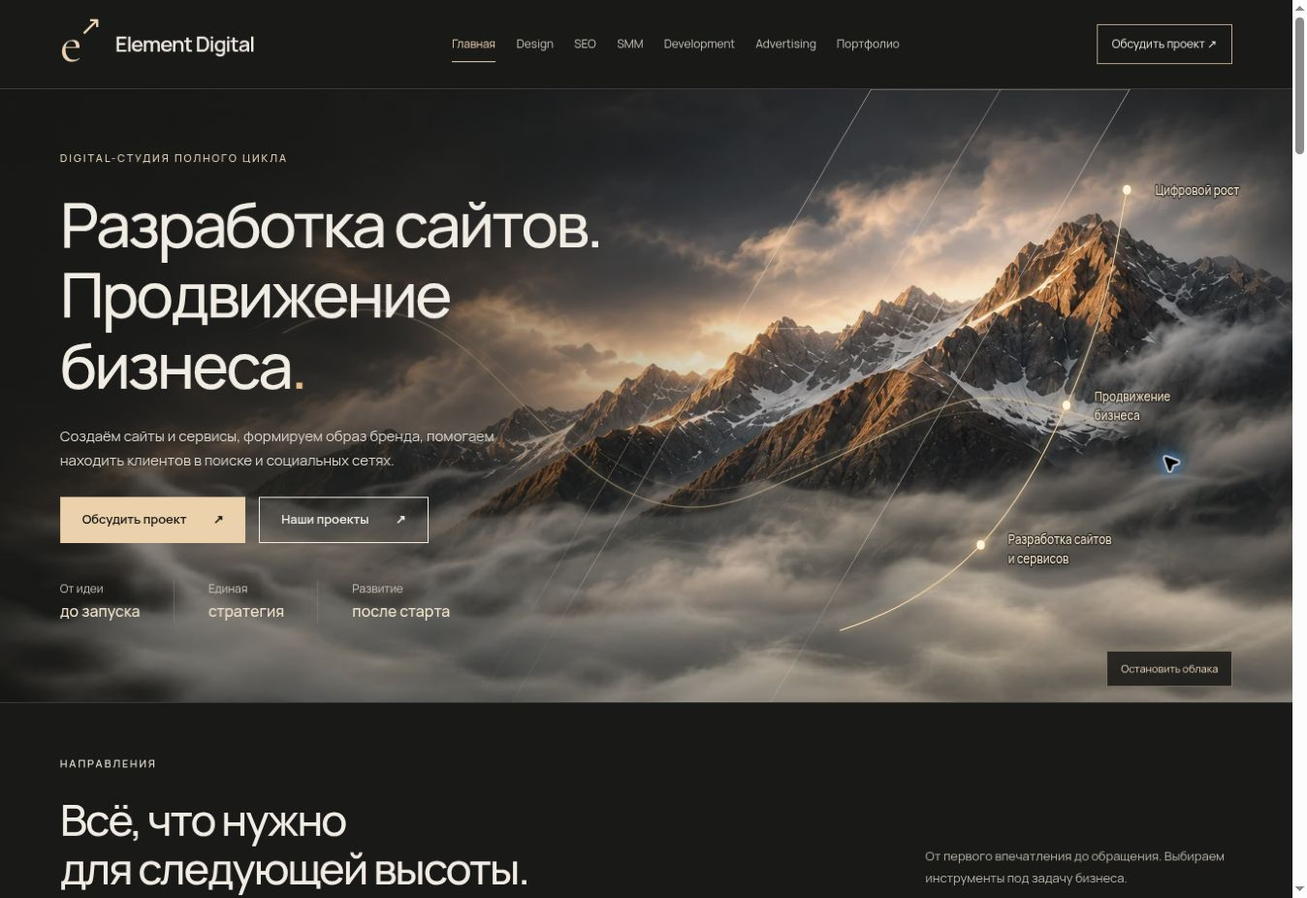
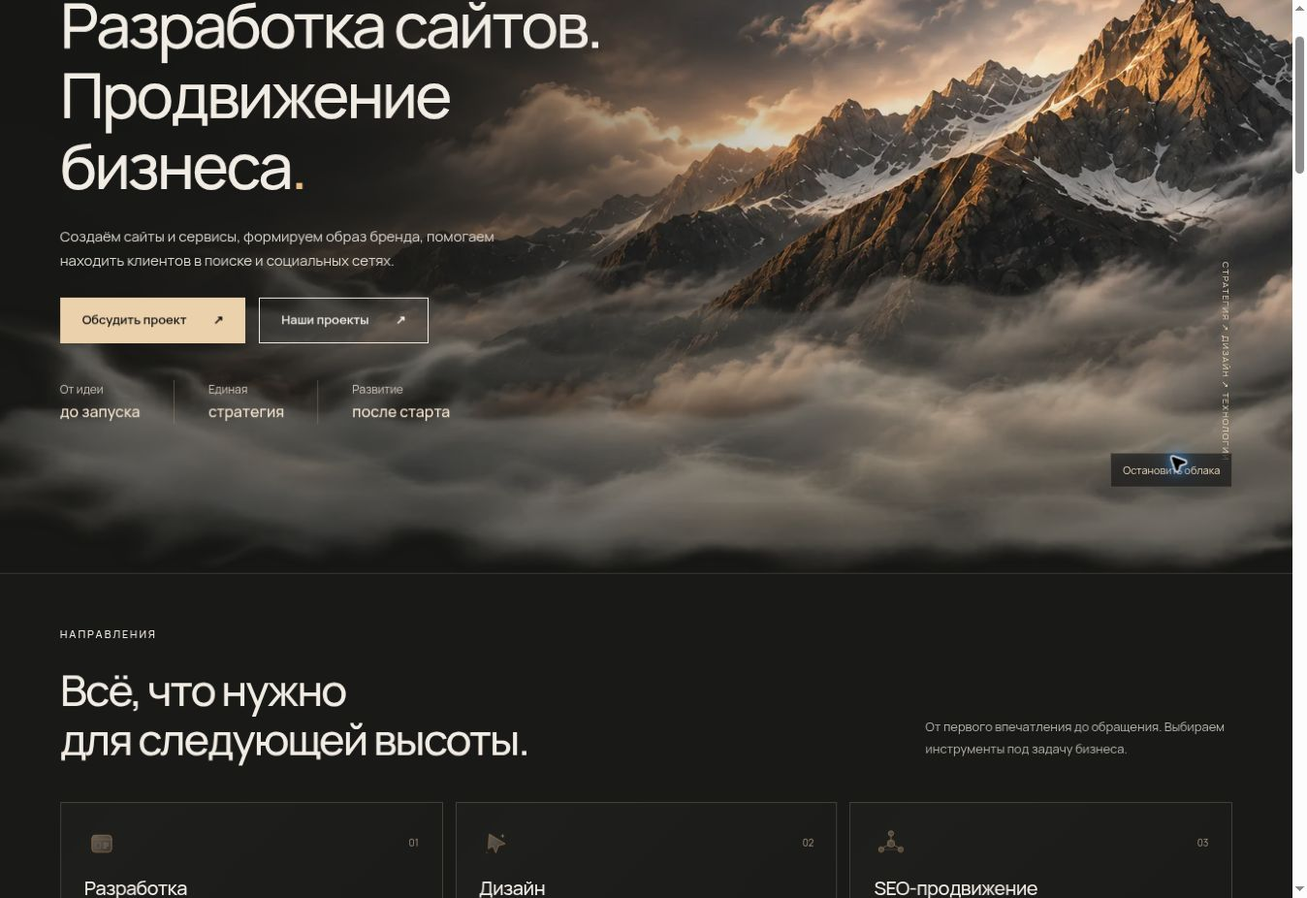
Limit change to cloud motion; preserve original mountains and remove all extra artwork

diff --git a/src/premium.css b/src/premium.css
@@ -1,5 +1,5 @@
 @font-face{font-family:Manrope;src:url('assets/manrope-400.woff') format('woff');font-weight:400;font-display:swap}@font-face{font-family:Manrope;src:url('assets/manrope-500.woff') format('woff');font-weight:500;font-display:swap}@font-face{font-family:Manrope;src:url('assets/manrope-600.woff') format('woff');font-weight:600 900;font-display:swap}@font-face{font-family:Cormorant;src:url('assets/cormorant-400.woff') format('woff');font-weight:400;font-display:swap}
-:root{--bg:#191918;--panel:#222220;--text:#f1ede5;--muted:#b9b5ad;--accent:#ebd1ac;--line:#ffffff26;--gutter:clamp(22px,4.6vw,88px);--sans:Manrope,Arial,sans-serif;--serif:Cormorant,Georgia,serif}*{box-sizing:border-box}html{scroll-behavior:smooth;scroll-padding-top:28px}body{margin:0;background:var(--bg);color:var(--text);font-family:var(--sans);font-size:16px;line-height:1.65}h1,h2,h3,p{margin:0}h1,h2,h3{font-weight:500;line-height:1.13;letter-spacing:-.045em}h1{font-size:clamp(44px,5.3vw,84px)}h2{font-size:clamp(34px,3.35vw,54px)}h3{font-size:23px;letter-spacing:-.025em}p{margin-block:18px}a{color:inherit;text-decoration:none}button,input,textarea,select{font:inherit}button,a,input,textarea,select{touch-action:manipulation}button{cursor:pointer}button{color:inherit}button:disabled{cursor:wait;opacity:.55}button,input,textarea,select{border-radius:0}button{border:0}img{max-width:100%;display:block}button:focus-visible,a:focus-visible,summary:focus-visible,input:focus-visible,textarea:focus-visible,select:focus-visible{outline:3px solid #c39bff;outline-offset:5px}a:hover{color:var(--accent)}[hidden]{display:none!important}::selection{color:#191918;background:#e8d1b0}.wrap{width:100%;max-width:1680px;margin-inline:auto;padding-inline:var(--gutter)}.section{padding-block:90px}.eyebrow{font-size:11px;letter-spacing:.18em;line-height:1.5;font-weight:500;margin:0 0 23px}.small,small{font-size:12px;line-height:1.7}.muted{color:var(--muted)}em{font-family:var(--serif);font-weight:400;font-size:1.14em;line-height:.9}.skip{position:fixed;top:-100px;left:20px;background:var(--accent);color:#151515;padding:12px 20px;z-index:100}.skip:focus{top:15px}.header{position:relative;z-index:30;background:#191918;color:#f1ede5;border-bottom:1px solid #ffffff25}.header-inner{min-height:92px;display:flex;align-items:center;gap:30px;justify-content:space-between}.brand{display:inline-flex;align-items:center;gap:18px;white-space:nowrap;font-size:22px;font-weight:600;letter-spacing:-.04em}.brand-icon{font-family:var(--serif);font-size:56px;font-weight:400;color:#ecd4b3;line-height:.8;display:flex;letter-spacing:-6px}.brand-icon span{font-family:Arial,sans-serif;font-size:28px;align-self:flex-start;letter-spacing:-4px;margin-top:-8px;margin-left:3px}.desktop-nav{display:flex;gap:clamp(14px,1.6vw,28px);font-size:12px}.desktop-nav a{padding:9px 0;color:#ccc7bf;position:relative}.desktop-nav a:hover,.desktop-nav a[aria-current]{color:#efd4b0}.desktop-nav a[aria-current]:after{content:'';position:absolute;height:1px;background:#efd4b0;bottom:0;left:0;right:0}.header-cta{border:1px solid #bfa888;padding:10px 15px;font-size:12px;white-space:nowrap}.header-cta:hover{background:#ebd1ac;color:#191918}.menu-toggle{display:none;background:none;min-width:44px;min-height:44px}.menu-toggle span{height:1px;background:#f1ede5;width:26px;display:block;margin:7px auto}.mobile-nav{padding-block:12px 28px}.mobile-nav a{display:block;padding:13px 0;border-bottom:1px solid #ffffff25}.button{display:inline-flex;justify-content:space-between;align-items:center;gap:28px;min-height:48px;padding:13px 22px;background:var(--accent);color:#171717;border:1px solid var(--accent);font-size:13px;font-weight:600;line-height:1.5;transition:background .2s,transform .2s}.button:hover{background:#fff0db;color:#171717;transform:translateY(-2px)}.button.outline{background:transparent;color:inherit;border-color:currentColor}.button.outline:hover{background:#ffffff14;color:inherit}.actions{display:flex;gap:14px;align-items:center;flex-wrap:wrap}.text-link{background:none;padding:0;border:0;font-size:14px;display:inline-flex;gap:20px;align-items:center;text-decoration:underline;text-underline-offset:6px}.mountain-hero{position:relative;isolation:isolate;min-height:640px;border-bottom:1px solid var(--line);overflow:hidden;background:#171715}.mountain-picture,.mountain-picture img,.hero-shade{position:absolute;inset:0;width:100%;height:100%}.mountain-picture{z-index:-4}.mountain-picture img{object-fit:cover;object-position:center}.hero-shade{z-index:-2;background:linear-gradient(90deg,#171715e8 0%,#171715b0 29%,#17171525 62%,transparent 90%),linear-gradient(0deg,#171715bb,transparent 30%)}.hero-content{padding-block:64px 44px}.hero-content .eyebrow{color:#e7d4b8}.hero-content h1{max-width:760px;font-size:clamp(44px,4.8vw,78px);text-wrap:balance}.hero-content h1>span{color:#e7bd83}.hero-description{max-width:460px;font-size:15px;color:#dbd7cf;line-height:1.65;margin:25px 0}.hero-principles{display:flex;gap:35px;margin-top:38px;font-size:12px;color:#cdc5b8}.hero-principles span{border-right:1px solid #9e8b7066;padding-right:35px}.hero-principles span:last-child{border:0}.hero-principles b{font-weight:500;color:#f2e2cb;font-size:16px}.hero-coordinate{position:absolute;bottom:43px;right:var(--gutter);font-size:9px;letter-spacing:.15em;writing-mode:vertical-rl;color:#ead6b7}.motion-toggle{position:absolute;bottom:16px;right:var(--gutter);background:#191918b0;border:1px solid #d9c4a23d;color:#ebd7b9;padding:5px 10px;font-size:10px}.cloud{position:absolute;pointer-events:none;z-index:-1;left:-18%;bottom:-12%;width:136%;height:62%;background:url('assets/cloud-drift.webp') center bottom/100% 100% no-repeat;opacity:.65;will-change:transform;transform:translate3d(-12%,3%,0);mask-image:linear-gradient(90deg,transparent,#000 14%,#000 86%,transparent)}.cloud-two{left:8%;bottom:15%;width:110%;height:40%;opacity:.38;transform:translate3d(10%,-2%,0)}.hero-content{position:relative;z-index:1}.motion-toggle{z-index:3;font-size:12px;min-height:40px;padding:9px 14px;background:#191918d9;border-color:#d9c4a280}.hero-coordinate{z-index:2}
+:root{--bg:#191918;--panel:#222220;--text:#f1ede5;--muted:#b9b5ad;--accent:#ebd1ac;--line:#ffffff26;--gutter:clamp(22px,4.6vw,88px);--sans:Manrope,Arial,sans-serif;--serif:Cormorant,Georgia,serif}*{box-sizing:border-box}html{scroll-behavior:smooth;scroll-padding-top:28px}body{margin:0;background:var(--bg);color:var(--text);font-family:var(--sans);font-size:16px;line-height:1.65}h1,h2,h3,p{margin:0}h1,h2,h3{font-weight:500;line-height:1.13;letter-spacing:-.045em}h1{font-size:clamp(44px,5.3vw,84px)}h2{font-size:clamp(34px,3.35vw,54px)}h3{font-size:23px;letter-spacing:-.025em}p{margin-block:18px}a{color:inherit;text-decoration:none}button,input,textarea,select{font:inherit}button,a,input,textarea,select{touch-action:manipulation}button{cursor:pointer}button{color:inherit}button:disabled{cursor:wait;opacity:.55}button,input,textarea,select{border-radius:0}button{border:0}img{max-width:100%;display:block}button:focus-visible,a:focus-visible,summary:focus-visible,input:focus-visible,textarea:focus-visible,select:focus-visible{outline:3px solid #c39bff;outline-offset:5px}a:hover{color:var(--accent)}[hidden]{display:none!important}::selection{color:#191918;background:#e8d1b0}.wrap{width:100%;max-width:1680px;margin-inline:auto;padding-inline:var(--gutter)}.section{padding-block:90px}.eyebrow{font-size:11px;letter-spacing:.18em;line-height:1.5;font-weight:500;margin:0 0 23px}.small,small{font-size:12px;line-height:1.7}.muted{color:var(--muted)}em{font-family:var(--serif);font-weight:400;font-size:1.14em;line-height:.9}.skip{position:fixed;top:-100px;left:20px;background:var(--accent);color:#151515;padding:12px 20px;z-index:100}.skip:focus{top:15px}.header{position:relative;z-index:30;background:#191918;color:#f1ede5;border-bottom:1px solid #ffffff25}.header-inner{min-height:92px;display:flex;align-items:center;gap:30px;justify-content:space-between}.brand{display:inline-flex;align-items:center;gap:18px;white-space:nowrap;font-size:22px;font-weight:600;letter-spacing:-.04em}.brand-icon{font-family:var(--serif);font-size:56px;font-weight:400;color:#ecd4b3;line-height:.8;display:flex;letter-spacing:-6px}.brand-icon span{font-family:Arial,sans-serif;font-size:28px;align-self:flex-start;letter-spacing:-4px;margin-top:-8px;margin-left:3px}.desktop-nav{display:flex;gap:clamp(14px,1.6vw,28px);font-size:12px}.desktop-nav a{padding:9px 0;color:#ccc7bf;position:relative}.desktop-nav a:hover,.desktop-nav a[aria-current]{color:#efd4b0}.desktop-nav a[aria-current]:after{content:'';position:absolute;height:1px;background:#efd4b0;bottom:0;left:0;right:0}.header-cta{border:1px solid #bfa888;padding:10px 15px;font-size:12px;white-space:nowrap}.header-cta:hover{background:#ebd1ac;color:#191918}.menu-toggle{display:none;background:none;min-width:44px;min-height:44px}.menu-toggle span{height:1px;background:#f1ede5;width:26px;display:block;margin:7px auto}.mobile-nav{padding-block:12px 28px}.mobile-nav a{display:block;padding:13px 0;border-bottom:1px solid #ffffff25}.button{display:inline-flex;justify-content:space-between;align-items:center;gap:28px;min-height:48px;padding:13px 22px;background:var(--accent);color:#171717;border:1px solid var(--accent);font-size:13px;font-weight:600;line-height:1.5;transition:background .2s,transform .2s}.button:hover{background:#fff0db;color:#171717;transform:translateY(-2px)}.button.outline{background:transparent;color:inherit;border-color:currentColor}.button.outline:hover{background:#ffffff14;color:inherit}.actions{display:flex;gap:14px;align-items:center;flex-wrap:wrap}.text-link{background:none;padding:0;border:0;font-size:14px;display:inline-flex;gap:20px;align-items:center;text-decoration:underline;text-underline-offset:6px}.mountain-hero{position:relative;isolation:isolate;min-height:640px;border-bottom:1px solid var(--line);overflow:hidden;background:#171715}.mountain-picture,.mountain-picture img,.hero-shade{position:absolute;inset:0;width:100%;height:100%}.mountain-picture{z-index:-4}.mountain-picture img{object-fit:cover;object-position:center}.hero-shade{z-index:-2;background:linear-gradient(90deg,#171715e8 0%,#171715b0 29%,#17171525 62%,transparent 90%),linear-gradient(0deg,#171715bb,transparent 30%)}.hero-content{padding-block:64px 44px}.hero-content .eyebrow{color:#e7d4b8}.hero-content h1{max-width:760px;font-size:clamp(44px,4.8vw,78px);text-wrap:balance}.hero-content h1>span{color:#e7bd83}.hero-description{max-width:460px;font-size:15px;color:#dbd7cf;line-height:1.65;margin:25px 0}.hero-principles{display:flex;gap:35px;margin-top:38px;font-size:12px;color:#cdc5b8}.hero-principles span{border-right:1px solid #9e8b7066;padding-right:35px}.hero-principles span:last-child{border:0}.hero-principles b{font-weight:500;color:#f2e2cb;font-size:16px}.hero-coordinate{position:absolute;bottom:43px;right:var(--gutter);font-size:9px;letter-spacing:.15em;writing-mode:vertical-rl;color:#ead6b7}.motion-toggle{position:absolute;bottom:16px;right:var(--gutter);background:#191918b0;border:1px solid #d9c4a23d;color:#ebd7b9;padding:5px 10px;font-size:10px}.cloud{position:absolute;pointer-events:none;z-index:-1;left:-18%;bottom:-12%;width:136%;height:62%;background:url('assets/cloud-drift.webp') center bottom/100% 100% no-repeat;opacity:.5;will-change:transform;transform:translate3d(-12%,3%,0);mask-image:linear-gradient(90deg,transparent,#000 14%,#000 86%,transparent)}.cloud-two{left:8%;bottom:15%;width:110%;height:40%;opacity:.28;transform:translate3d(10%,-2%,0)}.motion-toggle{min-height:40px;font-size:12px;padding:8px 12px;z-index:3}
 .section-head{display:flex;justify-content:space-between;gap:40px;align-items:flex-end;margin-bottom:40px}.section-aside{font-size:13px;line-height:1.8;color:var(--muted);max-width:320px;margin:0 0 3px}.service-section{padding-top:55px}.service-grid{display:grid;grid-template-columns:repeat(3,1fr);gap:13px}.service-card{border:1px solid #bca58244;background:linear-gradient(135deg,#ffffff06,#ffffff01);padding:24px;position:relative;min-height:214px;transition:background .2s,border-color .2s}.service-card:hover{border-color:#d9b991;background:#c7ad8710;color:inherit}.card-top{display:flex;justify-content:space-between;align-items:center;margin-bottom:18px;color:#a99b86;font-size:10px}.service-card h3{font-size:20px}.service-card p{font-size:13px;line-height:1.7;color:var(--muted);max-width:290px;margin:12px 20px 0 0}.card-arrow{position:absolute;bottom:20px;right:22px;color:var(--accent);font-size:22px}.solutions{border-top:1px solid var(--line);padding-top:55px}.solution-grid{display:grid;grid-template-columns:repeat(3,1fr);gap:40px}.solution-grid article{padding-block:25px;border-top:1px solid #ab967856}.solution-grid article>span{color:#c8b598;font-size:10px;letter-spacing:.13em}.solution-grid h3{font-size:28px;margin-top:24px}.solution-grid p{font-size:14px;color:var(--muted);max-width:320px}.solution-grid a{display:flex;justify-content:space-between;font-size:13px;max-width:320px;color:#e4c69d}.portfolio-strip{background:#111110}.project-grid{display:grid;grid-template-columns:repeat(3,minmax(0,1fr));gap:24px}.project-picture{aspect-ratio:1.6;background:#ddd5c8;position:relative;overflow:hidden}.project-picture img{width:100%;height:100%;object-fit:contain;transition:transform .4s}.project-card a:hover .project-picture img{transform:scale(1.035)}.project-open{position:absolute;bottom:12px;right:12px;padding:8px 12px;background:#181818e8;color:#f5ead9;font-size:11px}.project-caption{display:flex;align-items:baseline;gap:12px;justify-content:space-between;margin-top:20px}.project-caption h3{font-size:28px}.project-caption>span{font-size:10px;color:var(--muted);max-width:160px;text-align:right}.project-card>p,.project-card details{font-size:12px;color:var(--muted)}.project-card details summary{cursor:pointer;padding:8px 0;color:var(--text)}.section-end{display:flex;justify-content:flex-end;margin-top:35px}.steps{display:grid;grid-template-columns:repeat(5,minmax(0,1fr));gap:25px;padding:0;list-style:none}.steps li{border-top:1px solid var(--line);padding-top:22px}.step-num{font-size:12px;color:var(--accent)}.steps h3{font-size:18px;margin:28px 0 16px;line-height:1.3;min-height:46px}.steps p{font-size:12px;color:var(--muted)}.steps small{display:block;border-top:1px solid var(--line);padding-top:15px;font-size:11px;color:var(--muted)}.faq-list details{border-top:1px solid var(--line)}.faq-list details:last-child{border-bottom:1px solid var(--line)}.faq-list summary,.service-details summary{cursor:pointer;list-style:none;display:flex;justify-content:space-between;gap:25px;align-items:center;padding:24px 0;font-size:17px}.faq-list summary::-webkit-details-marker,.service-details summary::-webkit-details-marker{display:none}.faq-list summary span,.service-details summary span{font-size:24px;font-weight:400}.faq-list details[open] summary span,.service-details details[open] summary span{transform:rotate(45deg)}.faq-list details p{max-width:800px;margin:0 35px 28px 0;color:var(--muted);font-size:14px}.contact{background:#ded0ba;color:#27241f;--accent:#28251f;--muted:#645b4e;--line:#584b3438}.contact .button{color:#f3eadc}.contact .button:hover{background:#4a4031}.contact .button.outline{color:#30291f}.contact a:hover{color:#574b38}.contact h2{font-size:clamp(45px,4.6vw,72px)}.contact h2 em{font-weight:400}.contact-grid{display:grid;grid-template-columns:1fr 1fr;gap:100px}.contact-lead{font-size:14px;max-width:360px;line-height:1.9;margin:30px 0}.contact-panel{padding:30px 34px;border:1px solid #8e806950;background:#e8ddcc}.field{margin-bottom:22px}label{display:block;font-size:12px;margin-bottom:8px}input:not([type=checkbox]),textarea,select{width:100%;min-width:0;border:1px solid var(--line);background:transparent;color:inherit;padding:12px 13px;min-height:46px;font-size:14px}textarea{resize:vertical;display:block}.contact input:not([type=checkbox]),.contact textarea{border:0;border-bottom:1px solid #ad9f88;padding:8px 0}.contact input::placeholder,.contact textarea::placeholder{color:#726655}.consent{display:flex;align-items:flex-start;gap:12px;font-size:10px;line-height:1.7;margin:20px 0}.consent input{margin-top:3px;min-width:17px;width:17px;height:17px;accent-color:#30281f}.consent a{text-decoration:underline}.form-trap{position:absolute;width:1px;height:1px;overflow:hidden;clip-path:inset(50%)}#form-status{font-size:12px;line-height:1.7}#form-status[data-state=error]{color:#983b24}#form-status[data-state=success]{color:#225b3b}.prepared{border-top:1px solid #a99c87;margin-top:24px;padding-top:20px}.prepared textarea{font-size:12px;border:1px solid #aa9a81;padding:10px!important;margin-bottom:18px}.prepared .button{font-size:11px;padding:11px 13px}.footer{padding-block:35px;background:#191918;color:#eee7dd}.footer-top,.footer-bottom{display:flex;align-items:center;justify-content:space-between;gap:24px}.footer-top{padding-bottom:30px;border-bottom:1px solid #ffffff22}.footer-top p{font-size:12px;color:#b9b0a2}.footer-top>a:last-child{font-size:12px}.footer-bottom{padding-top:22px;font-size:10px;color:#b9b0a2}.footer-bottom a span{display:none}.footer-bottom .text-link{font-size:10px}.split{display:grid;grid-template-columns:1fr 1fr;gap:80px;align-items:center}.split p{color:var(--muted);font-size:15px}.page-intro{padding-block:85px 30px}.page-intro>p:last-child{max-width:650px;color:var(--muted);font-size:16px;margin-top:32px}.page-intro h1{max-width:1100px}.architecture{border:1px solid var(--line)}.statement{border-block:1px solid var(--line);padding:55px 0}.statement>p{max-width:640px;color:var(--muted)}
 /* Design: bold typography and a changeable experimental composition. */
 body[data-page=design]{--bg:#f0ede7;--text:#24221f;--panel:#e7e1d7;--muted:#686259;--line:#29231e2e;--accent:#25221e}.design-hero{display:grid;grid-template-columns:1fr 1fr;gap:25px;align-items:center;min-height:680px;padding-block:70px}.design-hero h1{font-size:clamp(68px,7.3vw,116px);font-weight:500;letter-spacing:-.07em}.design-hero h1 em{font-family:var(--sans);font-style:normal;font-size:1em;color:#6542bb}.design-hero>div>p:not(.eyebrow){max-width:360px;font-size:14px;margin-block:25px}.design-art{position:relative;isolation:isolate;min-height:490px;background:#262129;overflow:hidden;--art-primary:#d7ff70;--art-secondary:#b18be1;transform:rotate(3deg)}.design-art[data-palette=coral]{--art-primary:#ff9f8d;--art-secondary:#7895ff}.art-word{position:absolute;font-weight:600;line-height:1;letter-spacing:-.08em;font-size:clamp(85px,10.5vw,170px);color:var(--art-primary);left:30px}.art-word-one{top:20px}.art-word-two{bottom:50px;left:auto;right:35px;-webkit-text-stroke:1px var(--art-primary);color:transparent;z-index:2}.design-orb{position:absolute;inset:90px 14% 90px 18%;border-radius:50%;background:radial-gradient(circle at 28% 26%,#eee0ff,var(--art-secondary) 35%,#513080 62%,#1d1823 85%);box-shadow:inset -15px -20px 30px #16101a,20px 20px 25px #130e214d;transform:rotate(-30deg)}.design-sticker{position:absolute;z-index:3;background:var(--art-primary);color:#24212a;right:20px;top:150px;padding:18px;transform:rotate(11deg);font-size:65px;letter-spacing:-8px;line-height:1}.design-sticker small{display:block;font-size:8px;letter-spacing:.08em;margin-top:18px}.palette-picker{position:absolute;bottom:13px;left:18px;display:flex;gap:8px;align-items:center;z-index:5;color:white;font-size:8px}.palette-picker button{width:32px;height:32px;border-radius:50%;border:3px solid #262129;background:#d7ff70;outline:1px solid transparent}.palette-picker button[data-palette=coral]{background:#ff9f8d}.palette-picker button[aria-pressed=true]{outline-color:#fff}.palette-picker span{margin-left:5px}.design-ticker{background:#d7ff70;color:#29222c;font-size:clamp(17px,3.3vw,50px);letter-spacing:-.035em;font-weight:600;padding:14px var(--gutter);white-space:nowrap;overflow:hidden;border-block:1px solid #29231e}.editorial-grid{display:grid;grid-template-columns:repeat(3,minmax(0,1fr));gap:50px}.editorial-grid.four{grid-template-columns:repeat(4,minmax(0,1fr));gap:30px}.editorial-grid article{border-top:1px solid var(--line);padding-top:22px}.editorial-grid article>span{font-size:11px;color:var(--muted)}.editorial-grid h3{margin-top:40px;font-size:26px}.editorial-grid p{font-size:14px;color:var(--muted)}.design-delivery{background:#31253f;color:#f3ede9;--muted:#cec4d5}.deliverables{list-style:none;padding:0}.deliverables li{border-bottom:1px solid #ffffff30;padding:15px 0;font-size:15px}.deliverables li:before{content:'↗';margin-right:22px;color:#d7ff70}
@@ -67,13 +67,3 @@ body[data-page=design],body[data-page=seo],body[data-page=smm],body[data-demo=be
 @media(max-width:1000px){.commercial-hero{grid-template-columns:1fr;gap:35px}.commercial-links{grid-template-columns:1fr}.commercial-hero aside{max-width:750px}}
 @media(max-width:640px){.commercial-hero{padding-block:45px}.commercial-hero h1{font-size:38px}.commercial-lead{font-size:16px}.commercial-hero aside{padding:23px}.commercial-scope,.commercial-terms{grid-template-columns:1fr;gap:24px}.commercial-scope article,.commercial-links article{padding:23px}.commercial-scope h3,.commercial-links h3,.commercial-terms h3{font-size:23px}.commercial-context>p,.commercial-result>p,.commercial-demo>p{font-size:16px}.commercial-breadcrumb{font-size:12px}}
 @media(max-width:640px){body[data-page=home] .section-head h2,body[data-page=home] .service-card h3{overflow-wrap:anywhere}}
-
-/* Keep the reference peak visible while the left side supports live copy. */
-.mountain-picture img{object-position:70% center}.hero-shade{background:linear-gradient(90deg,#171715d9 0%,#1717158c 30%,#1717150d 60%,transparent),linear-gradient(0deg,#17171580,transparent 25%)}
-@media(max-width:640px){.mountain-picture img{object-position:71% center}.hero-shade{background:linear-gradient(180deg,#171715cf 0%,#1717158c 38%,#1717150a 65%,#171715b3 100%)}.motion-toggle{font-size:12px;min-height:44px}}
-
-/* Architectural glass and light trails follow the approved mountain reference. */
-.mountain-frames,.hero-growth{position:absolute;inset:0;width:100%;height:100%;pointer-events:none}.mountain-frames{z-index:-3}.glass-plane{fill:#eee5d908;stroke:#f0e4d1;stroke-opacity:.55;stroke-width:1;vector-effect:non-scaling-stroke}.glass-plane.second{fill:none;stroke-opacity:.4}.wind-line{fill:none;stroke:#eed3a3;stroke-width:1.25;opacity:.65;filter:drop-shadow(0 0 5px #ffd398)}.wind-line.fine{stroke-width:.65;opacity:.4}.hero-growth{z-index:1}.growth-line{fill:none;stroke:#f1d5a8;stroke-width:1.3}.growth-glow{fill:none;stroke:#ffdcaa;stroke-width:7;opacity:.22;filter:blur(5px)}.growth-points{fill:#fff4db;filter:drop-shadow(0 0 5px #ffd18c) drop-shadow(0 0 12px #ffe6b7)}.hero-content{z-index:2}.hero-coordinate{display:none}
-@media(max-width:900px){.hero-growth{display:none}.mountain-frames{opacity:.65}}
-
-.growth-labels{fill:#f0dfc6;font-family:Manrope,Arial,sans-serif;font-size:14px;font-weight:500;paint-order:stroke;stroke:#19191899;stroke-width:3px;stroke-linejoin:round}

diff --git a/src/index.html b/src/index.html
@@ -7,6 +7,6 @@
 <link rel="canonical" href="{{canonical}}">
 <meta property="og:type" content="website"><meta property="og:locale" content="ru_RU"><meta property="og:site_name" content="Element Digital">
 <meta property="og:title" content="{{title}}"><meta property="og:description" content="{{description}}"><meta property="og:url" content="{{canonical}}"><meta property="og:image" content="{{url}}/assets/og.png"><meta property="og:image:width" content="1200"><meta property="og:image:height" content="630"><meta property="og:image:alt" content="Element Digital — digital-студия полного цикла"><meta name="twitter:card" content="summary_large_image">
-<link rel="icon" href="{{base}}assets/favicon.svg" type="image/svg+xml"><link rel="preload" href="{{base}}assets/manrope-400.woff" as="font" type="font/woff" crossorigin><link rel="stylesheet" href="{{base}}premium.css?v=cloud2">{{pageStyles}}
-<script type="application/ld+json">{{schema}}</script><script id="site-config" type="application/json">{{config}}</script><script type="module" src="{{base}}premium.js?v=cloud2"></script>
+<link rel="icon" href="{{base}}assets/favicon.svg" type="image/svg+xml"><link rel="preload" href="{{base}}assets/manrope-400.woff" as="font" type="font/woff" crossorigin><link rel="stylesheet" href="{{base}}premium.css?v=cloud-only">{{pageStyles}}
+<script type="application/ld+json">{{schema}}</script><script id="site-config" type="application/json">{{config}}</script><script type="module" src="{{base}}premium.js?v=cloud-only"></script>
 </head><body data-page="{{theme}}" {{demo}}>{{body}}</body></html>

diff --git a/docs/mountain-cloud-review.md b/docs/mountain-cloud-review.md
@@ -1,14 +1,9 @@
-# Горы, стеклянные рамки и движущиеся облака
+# Исправление движения облаков
 
-Ветка `feat/mountain-cloud-motion`. Требуется визуальное согласование перед публикацией.
+Итоговая область изменений: только облака на существующей главной и управление их движением. Исходные горы, тексты, навигация и все остальные разделы сохранены. Рамки, линии, схемы и новые горные пейзажи из предыдущего предложения убраны.
 
-- Горный фон адаптирован из присланного референса: графитовые скалы, снежные склоны, тёплый контровой свет. Надписи и карточки исходного изображения не встроены в фон; тексты и навигация остаются настоящим HTML.
-- Добавлены прозрачные диагональные плоскости, две тонкие линии ветра и восходящая линия с ровно тремя светящимися точками. Подписи: разработка сайтов и сервисов, продвижение бизнеса, цифровой рост.
-- Два отдельных прозрачных слоя облаков движутся в разных направлениях со скоростью, заметной на неподвижных горах. Пауза сохраняет текущее положение; включение продолжает движение.
-- Устранён конфликт с системной настройкой уменьшения движения: по умолчанию движение выключено при такой настройке, но явное нажатие посетителем «Включить облака» работает. В фоновой вкладке движение приостанавливается; ручная пауза при возврате сохраняется.
-- Кнопка увеличена для удобного нажатия. На мобильных экранах правая схема скрыта, чтобы не перекрывать содержание; горы, рамки, линии ветра и облака сохранены.
-- Исходные mountain.webp и mountain-mobile.webp сохранены. Новые оптимизированные фоны — 108 и 31 КБ, общий прозрачный слой облаков — 155 КБ.
+Два прозрачных слоя движутся над неподвижной исходной фотографией. Кнопка паузы сохраняет положение, включение продолжает движение. При системной настройке уменьшения движения анимация по умолчанию выключена, но посетитель может явно её включить. Фоновая вкладка приостанавливает движение; ручная пауза при возврате сохраняется.
 
-Проверено: 13 тестов, включая уменьшенное движение, ручной запуск, паузу и смену видимости вкладки; check; Worker и статическая сборки. В браузере измерены меняющиеся transform облаков, неизменное положение после паузы и возобновление после включения. Проверены ширины 320, 375 и 768 px без горизонтальной прокрутки. Реальные физические устройства не проверялись.
+Проверено: check, 13 тестов, Worker и статическая сборки. В браузере подтверждены изменение transform при движении, неизменное положение на паузе и возобновление после нажатия. Мобильные размеры 320, 375 и 768 px проверены ранее с теми же слоями облаков и не менялись в финальной версии. Публикации нет, ожидается согласование.
 
-![Главная](review-images/mountain-cloud-review.png)
+![Главная — только облака](review-images/mountain-cloud-review.png)
